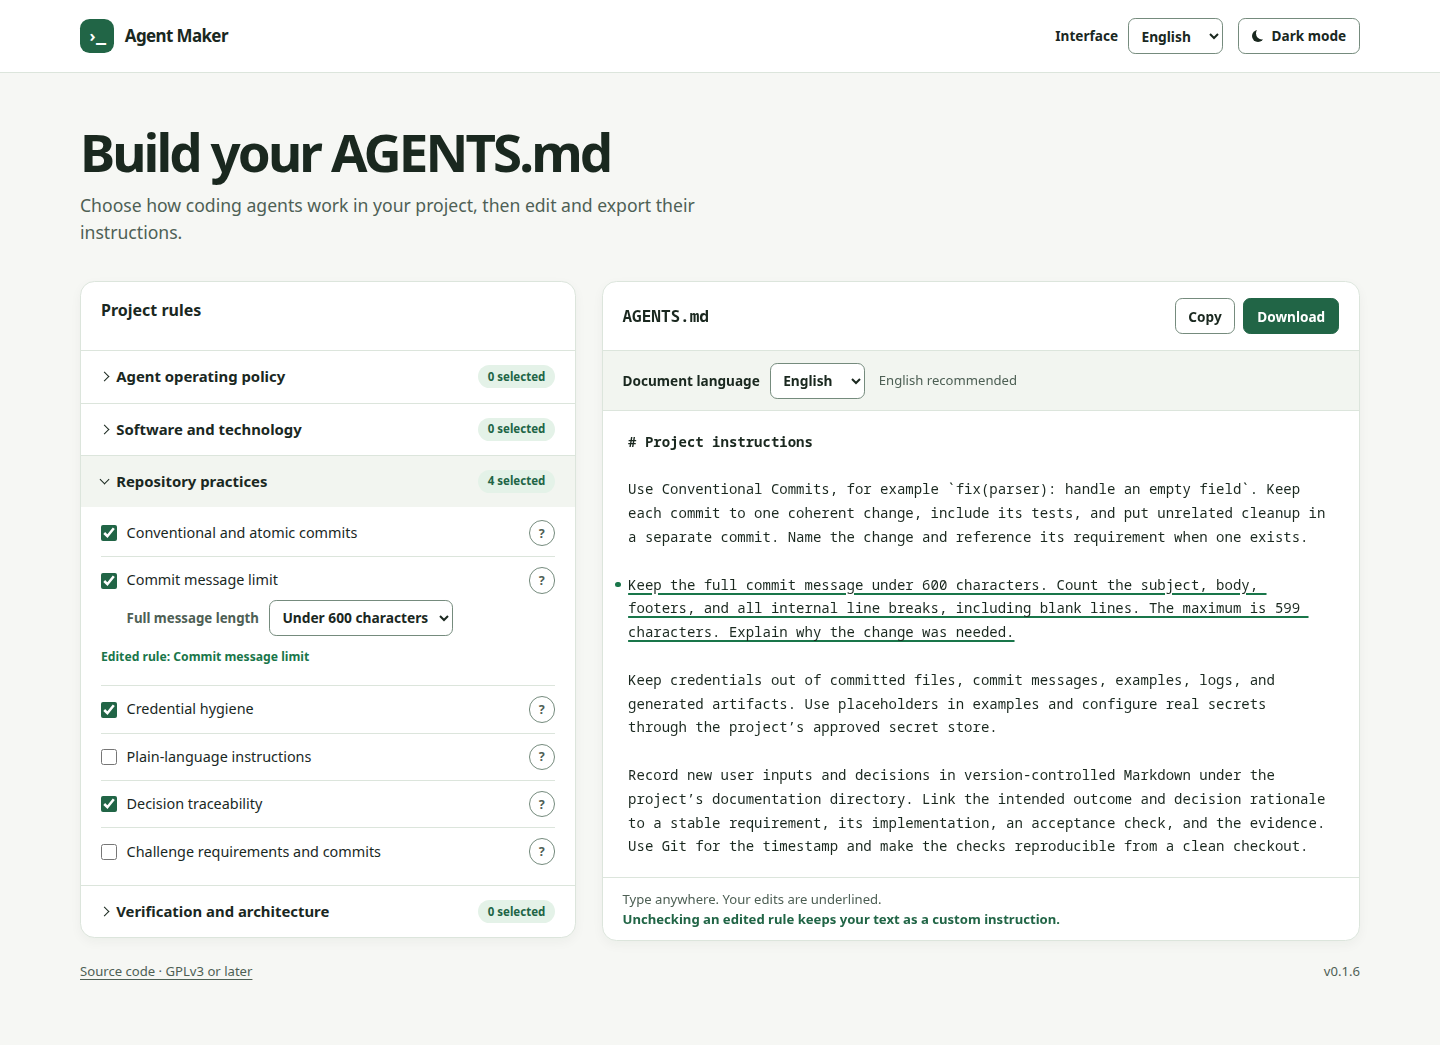
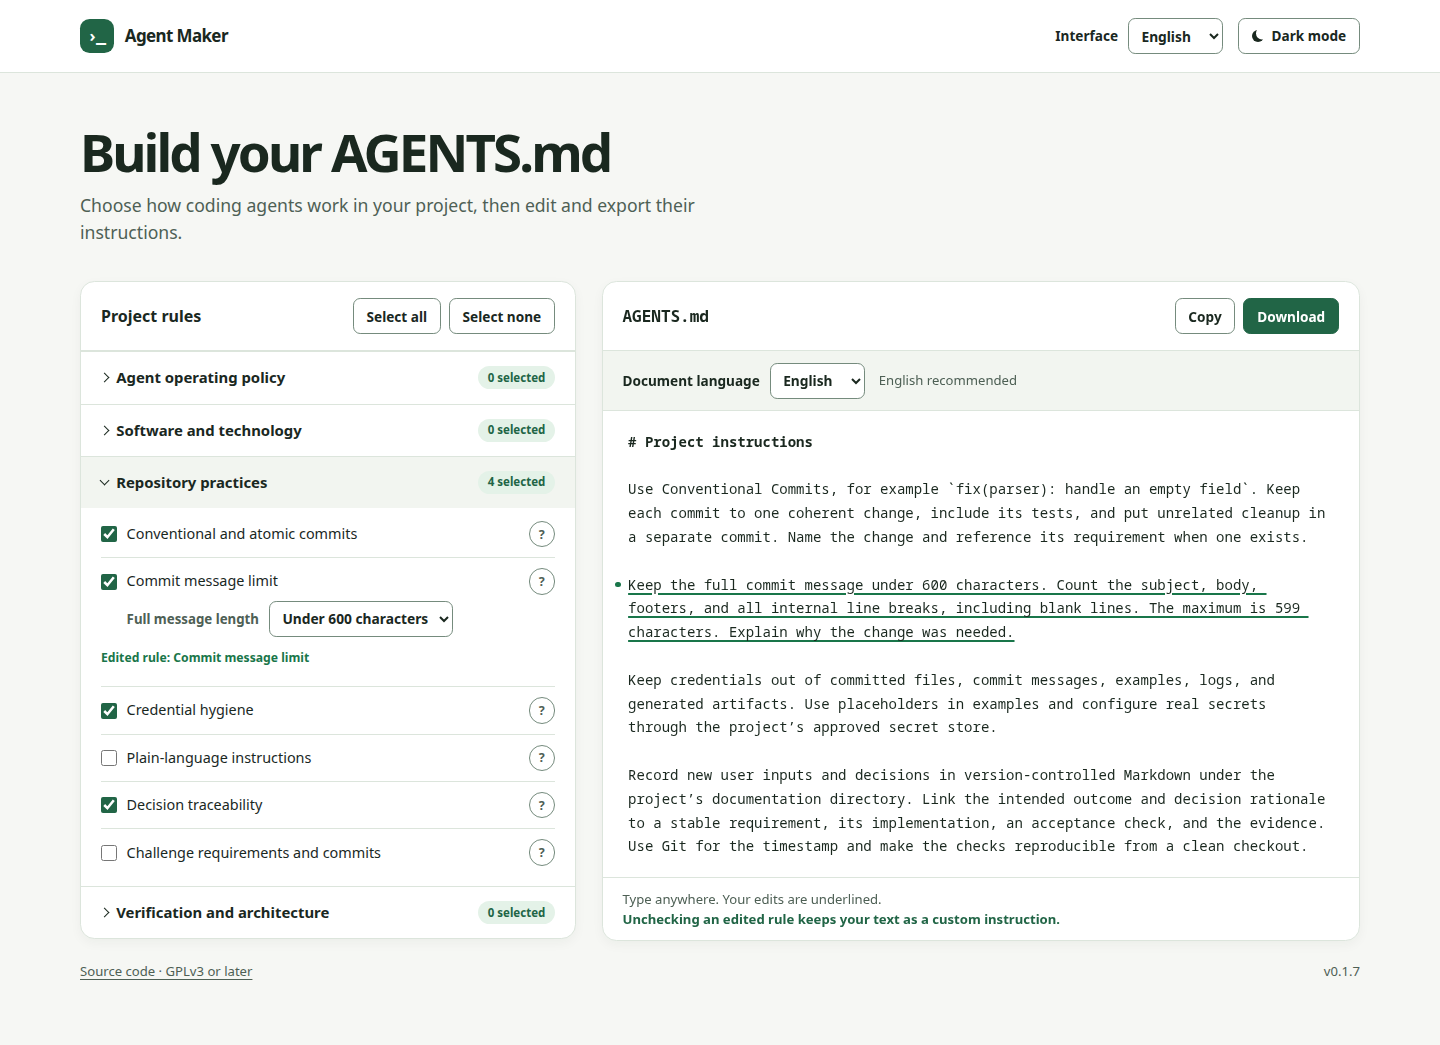
feat(form): add Select all and Select none for project rules
Select none keeps edited rules as custom text. Requirements: F02, F05

diff --git a/src/app.ts b/src/app.ts
@@ -14,7 +14,12 @@ import { openEditor } from "./editor";
 import { strings } from "./strings";
 import { version } from "./version";
 
-type Message = "copied" | "copyFailed" | "downloaded" | { kept: Rule };
+type Message =
+  | "copied"
+  | "copyFailed"
+  | "downloaded"
+  | { kept: Rule }
+  | { keptCount: number };
 
 const element = <T extends HTMLElement>(id: string) =>
   document.getElementById(id) as T;
@@ -151,11 +156,13 @@ export function mount() {
   function setMessage(next?: Message) {
     message = next;
     status.textContent =
-      next && typeof next === "object"
-        ? words().keptRule(next.kept.label[uiLanguage])
-        : next
+      next === undefined
+        ? ""
+        : typeof next === "string"
           ? words()[next]
-          : "";
+          : "kept" in next
+            ? words().keptRule(next.kept.label[uiLanguage])
+            : words().keptRules(next.keptCount);
   }
 
   function isEdited(id: string) {
@@ -316,6 +323,21 @@ export function mount() {
     });
   }
 
+  element("select-all").addEventListener("click", () => {
+    const added = rules.filter((rule) => !selected.has(rule.id));
+    for (const rule of added) selected.add(rule.id);
+    updateParagraphs(
+      added.map((rule) => ({ id: rule.id, text: paragraph(rule) })),
+    );
+    setMessage();
+  });
+  element("select-none").addEventListener("click", () => {
+    const removed = rules.filter((rule) => selected.has(rule.id));
+    const kept = removed.filter((rule) => isEdited(rule.id)).length;
+    selected.clear();
+    updateParagraphs(removed.map((rule) => ({ id: rule.id })));
+    setMessage(kept > 0 ? { keptCount: kept } : undefined);
+  });
   element("workspace").addEventListener("click", (event) => {
     if (
       activeHelp &&

diff --git a/src/strings.ts b/src/strings.ts
@@ -11,6 +11,8 @@ export const strings = {
       intro:
         "Choose how coding agents work in your project, then edit and export their instructions.",
       rulesHeading: "Project rules",
+      selectAll: "Select all",
+      selectNone: "Select none",
       sourceLicense: "Source code · GPLv3 or later",
       copy: "Copy",
       download: "Download",
@@ -25,6 +27,8 @@ export const strings = {
     },
     keptRule: (label: string) =>
       `Kept your edited text for “${label}” as custom text.`,
+    keptRules: (count: number) =>
+      `Kept your edited text for ${count} ${count === 1 ? "rule" : "rules"} as custom text.`,
     editWarning:
       "Unchecking an edited rule keeps your text as a custom instruction.",
     copied: "Copied AGENTS.md to the clipboard.",
@@ -49,6 +53,8 @@ export const strings = {
       intro:
         "Lege fest, wie Programmieragenten in deinem Projekt arbeiten. Bearbeite und exportiere dann ihre Anweisungen.",
       rulesHeading: "Projektregeln",
+      selectAll: "Alle auswählen",
+      selectNone: "Keine auswählen",
       sourceLicense: "Quellcode · GPLv3 oder neuer",
       copy: "Kopieren",
       download: "Herunterladen",
@@ -64,6 +70,8 @@ export const strings = {
     },
     keptRule: (label: string) =>
       `Dein bearbeiteter Text für „${label}“ bleibt als eigene Anweisung erhalten.`,
+    keptRules: (count: number) =>
+      `Dein bearbeiteter Text für ${count} ${count === 1 ? "Regel" : "Regeln"} bleibt als eigene Anweisung erhalten.`,
     editWarning:
       "Wenn du eine bearbeitete Regel abwählst, bleibt dein Text als eigene Anweisung erhalten.",
     copied: "AGENTS.md wurde in die Zwischenablage kopiert.",

diff --git a/test/app.test.ts b/test/app.test.ts
@@ -201,6 +201,30 @@ describe("workspace", () => {
     expect(draft()).toContain("Rust, SQLite");
   });
 
+  it("selects all rules at once and clears them while keeping edited text", () => {
+    edit(paragraph("credentials"), " eigene ");
+    element("select-all").click();
+    for (const entry of rules) {
+      expect(element<HTMLInputElement>(`rule-${entry.id}`).checked).toBe(true);
+    }
+    expect(draft()).toContain(paragraph("delegation", "prohibited"));
+    expect(draft()).toContain(" eigene ");
+    element("select-none").click();
+    for (const entry of rules) {
+      expect(element<HTMLInputElement>(`rule-${entry.id}`).checked).toBe(false);
+    }
+    expect(draft()).toContain(" eigene ");
+    expect(draft()).not.toContain(paragraph("commits"));
+    expect(element("status").textContent).toBe(
+      "Kept your edited text for 1 rule as custom text.",
+    );
+    element("select-none").click();
+    expect(element("status").textContent).toBe("");
+    select("ui-language", "de");
+    expect(element("select-all").textContent).toBe("Alle auswählen");
+    expect(element("select-none").textContent).toBe("Keine auswählen");
+  });
+
   it("keeps user edits undoable without undoing form changes", () => {
     const before = draft();
     view.dispatch({

diff --git a/index.html b/index.html
@@ -48,6 +48,24 @@
         <section class="rules-panel" aria-labelledby="rules-heading">
           <div class="rules-header">
             <h2 id="rules-heading" data-copy="rulesHeading">Project rules</h2>
+            <div class="rules-actions">
+              <button
+                id="select-all"
+                class="secondary-button"
+                type="button"
+                data-copy="selectAll"
+              >
+                Select all
+              </button>
+              <button
+                id="select-none"
+                class="secondary-button"
+                type="button"
+                data-copy="selectNone"
+              >
+                Select none
+              </button>
+            </div>
           </div>
           <div id="rules"></div>
         </section>

diff --git a/src/style.css b/src/style.css
@@ -87,6 +87,8 @@ main {
 
 .header-inner,
 .header-settings,
+.rules-header,
+.rules-actions,
 .document-header,
 .document-actions,
 .document-settings,
@@ -127,6 +129,7 @@ main {
 }
 
 .header-settings,
+.rules-actions,
 .document-actions {
   flex-wrap: wrap;
   gap: 0.5rem;
@@ -267,6 +270,7 @@ main {
   font-weight: 750;
 }
 
+.rules-header,
 .document-header {
   flex-wrap: wrap;
   justify-content: space-between;

diff --git a/docs/decisions.md b/docs/decisions.md
@@ -1,14 +1,15 @@
 # Implementation decisions
 
-| Decision                                                                                                                                                       | Rationale and requirements                                                                                                              | Evidence to collect                                                                       |
-| -------------------------------------------------------------------------------------------------------------------------------------------------------------- | --------------------------------------------------------------------------------------------------------------------------------------- | ----------------------------------------------------------------------------------------- |
-| Publish a static browser app from `main` under the repository's GitHub Pages path.                                                                             | F01, F06 and I14 need clean-clone and export evidence. A static app can compose and export without a backend.                           | Built subpath browser tests, GitHub Actions, live site smoke test.                        |
-| Start with English interface and output, light theme, and commits, 300-character messages, credential hygiene, and traceability selected.                      | F01, F07, F08, C06–C09 and C11. The vision leaves the limit open. The smaller strict bound is the default and 600 is selectable.        | Default assertions and browser walkthrough.                                               |
-| Track generated contributions by positional identity. Treat direct edits as authoritative. Preserve edited text when settings, language, or selections change. | F03–F06, F08 and F09. Text matching can remove an identical personal copy. A multi-rule cancellation should leave the editor untouched. | Unit tests with identical paragraphs, disjoint edits, cancellation, and byte comparisons. |
-| Include SemVer and CalVer choices. Offer opt-in executable-line coverage with 99% prefilled.                                                                   | C05 and C16. Project rules can choose their version scheme and exact coverage gate. This project's own gate is 95%.                     | Inspect both policy variants and run thresholds through the pipeline.                     |
-| Keep drafts in the open tab. Publish on GitHub Pages.                                                                                                          | The requested workflow ends in copying or downloading the current text. The maintainer removed container distribution from scope.       | Verify exported text and production asset paths.                                          |
-| Defer the repository scan described in I12.                                                                                                                    | The vision places scanning in a later phase after trying the form and describes a separate scope decision.                              | Verify that adding a catalog entry needs no change to the editor.                         |
-| Use automated Chromium, Firefox, and WebKit production smoke and workflow tests.                                                                               | F02, F06, F07, F08, and F10 depend on real browser behavior. Compare the declared targets with pipeline results.                        | Browser report for all three targets and Chromium unit and integration coverage report.   |
+| Decision                                                                                                                                                       | Rationale and requirements                                                                                                              | Evidence to collect                                                                              |
+| -------------------------------------------------------------------------------------------------------------------------------------------------------------- | --------------------------------------------------------------------------------------------------------------------------------------- | ------------------------------------------------------------------------------------------------ |
+| Publish a static browser app from `main` under the repository's GitHub Pages path.                                                                             | F01, F06 and I14 need clean-clone and export evidence. A static app can compose and export without a backend.                           | Built subpath browser tests, GitHub Actions, live site smoke test.                               |
+| Start with English interface and output, light theme, and commits, 300-character messages, credential hygiene, and traceability selected.                      | F01, F07, F08, C06–C09 and C11. The vision leaves the limit open. The smaller strict bound is the default and 600 is selectable.        | Default assertions and browser walkthrough.                                                      |
+| Track generated contributions by positional identity. Treat direct edits as authoritative. Preserve edited text when settings, language, or selections change. | F03–F06, F08 and F09. Text matching can remove an identical personal copy. A multi-rule cancellation should leave the editor untouched. | Unit tests with identical paragraphs, disjoint edits, cancellation, and byte comparisons.        |
+| Include SemVer and CalVer choices. Offer opt-in executable-line coverage with 99% prefilled.                                                                   | C05 and C16. Project rules can choose their version scheme and exact coverage gate. This project's own gate is 95%.                     | Inspect both policy variants and run thresholds through the pipeline.                            |
+| Keep drafts in the open tab. Publish on GitHub Pages.                                                                                                          | The requested workflow ends in copying or downloading the current text. The maintainer removed container distribution from scope.       | Verify exported text and production asset paths.                                                 |
+| Defer the repository scan described in I12.                                                                                                                    | The vision places scanning in a later phase after trying the form and describes a separate scope decision.                              | Verify that adding a catalog entry needs no change to the editor.                                |
+| Use automated Chromium, Firefox, and WebKit production smoke and workflow tests.                                                                               | F02, F06, F07, F08, and F10 depend on real browser behavior. Compare the declared targets with pipeline results.                        | Browser report for all three targets and Chromium unit and integration coverage report.          |
+| Offer Select all and Select none above the rule categories. Select none keeps edited rules as custom text and reports how many were kept.                      | The maintainer asked for bulk selection on 2026-11-25. It extends F02 and follows the F05 rule for unchecking edited text.              | [Integration test](../test/app.test.ts) for both actions, edited text, status and German labels. |
 
 ## Delivery decisions
 
